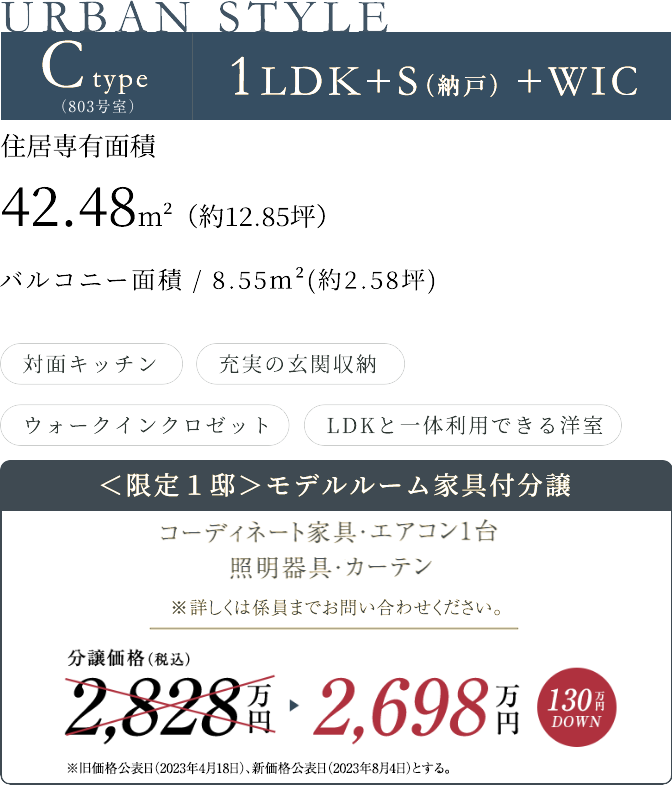
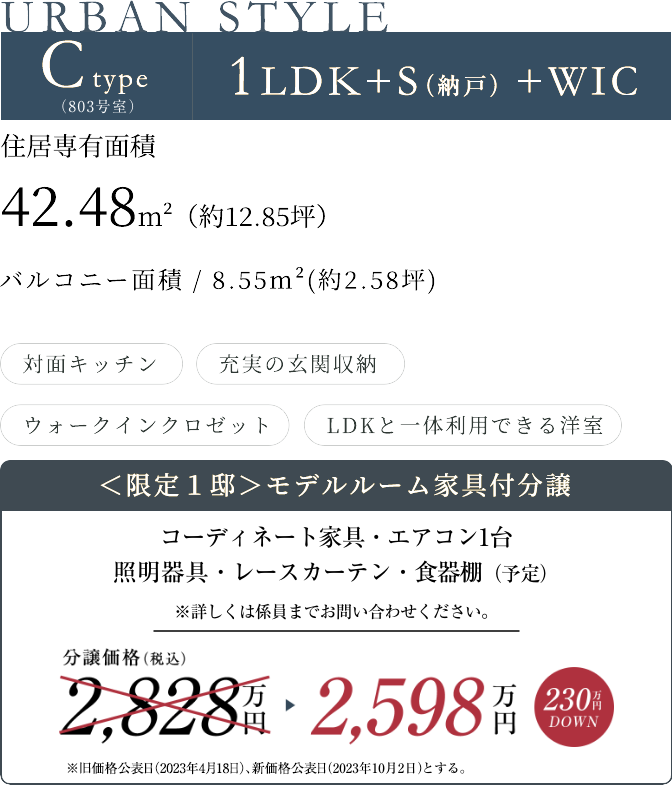
no message

Changed region(s): [[0.0938, 0.642, 0.8125, 0.9478], [0.4688, 0.8561, 0.9375, 1.0]]

diff --git a/index.html b/index.html
@@ -90,7 +90,7 @@ j=d.createElement(s),dl=l!='dataLayer'?'&l='+l:'';j.async=true;j.src=
         <div class="modalBnrWrap">
             <div class="modalBnrContainer">
                 <div class="modalBnrContent">
-                    <a href="special/modelroom/#Btype"><img class="switch" src="images/img_slide38.jpg"></a>
+                    <a href="special/modelroom/#Ctype-8f"><img class="switch" src="images/img_slide39.jpg"></a>
                     <div class="modalBnrClose opa"></div>
                 </div>
             </div>
@@ -104,7 +104,7 @@ j=d.createElement(s),dl=l!='dataLayer'?'&l='+l:'';j.async=true;j.src=
   <ul class="crm--slider">
 <!--    <li><a href="special/modelroom/#Etype"><img src="images/img_slide36.jpg" alt="コーディネート家具付き住戸特別分譲"></a></li>-->
 <!--    <li><a href="plan/c.html"><img src="images/img_slide34.jpg" alt="コーディネート家具付き住戸特別分譲"></a></li>-->
-    <li><a href="special/modelroom/#Btype"><img src="images/img_slide38.jpg" alt="モデルルーム使用住戸特別分譲"></a></li>
+    <li><a href="special/modelroom/#Ctype-8f"><img src="images/img_slide39.jpg" alt="モデルルーム使用住戸特別分譲"></a></li>
     <li><a href="plan/"><img src="images/img_slide03.jpg" alt="間取り"></a></li>
 <!--    <li><a href="https://mid.secure.force.com/reserve?id=a0c1000000kVOCS" target="_blank" ><img src="images/img_slide31.jpg" alt="来場キャンペーン"></a></li>-->
     <li><a href="https://www.cielia.com/campaign2023_1/" target="_blank" ><img src="images/img_slide37.jpg" alt="サンクスフェア"></a></li>

diff --git a/special/modelroom/css/modelroom.css b/special/modelroom/css/modelroom.css
@@ -689,7 +689,7 @@ ul.bxslider {
 
 .plan_detail .text p{
   padding-top: 30px;
-  border-top: 1px solid #a0a9b1;
+/*  border-top: 1px solid #a0a9b1;*/
   margin-top: 30px;
 }
 
